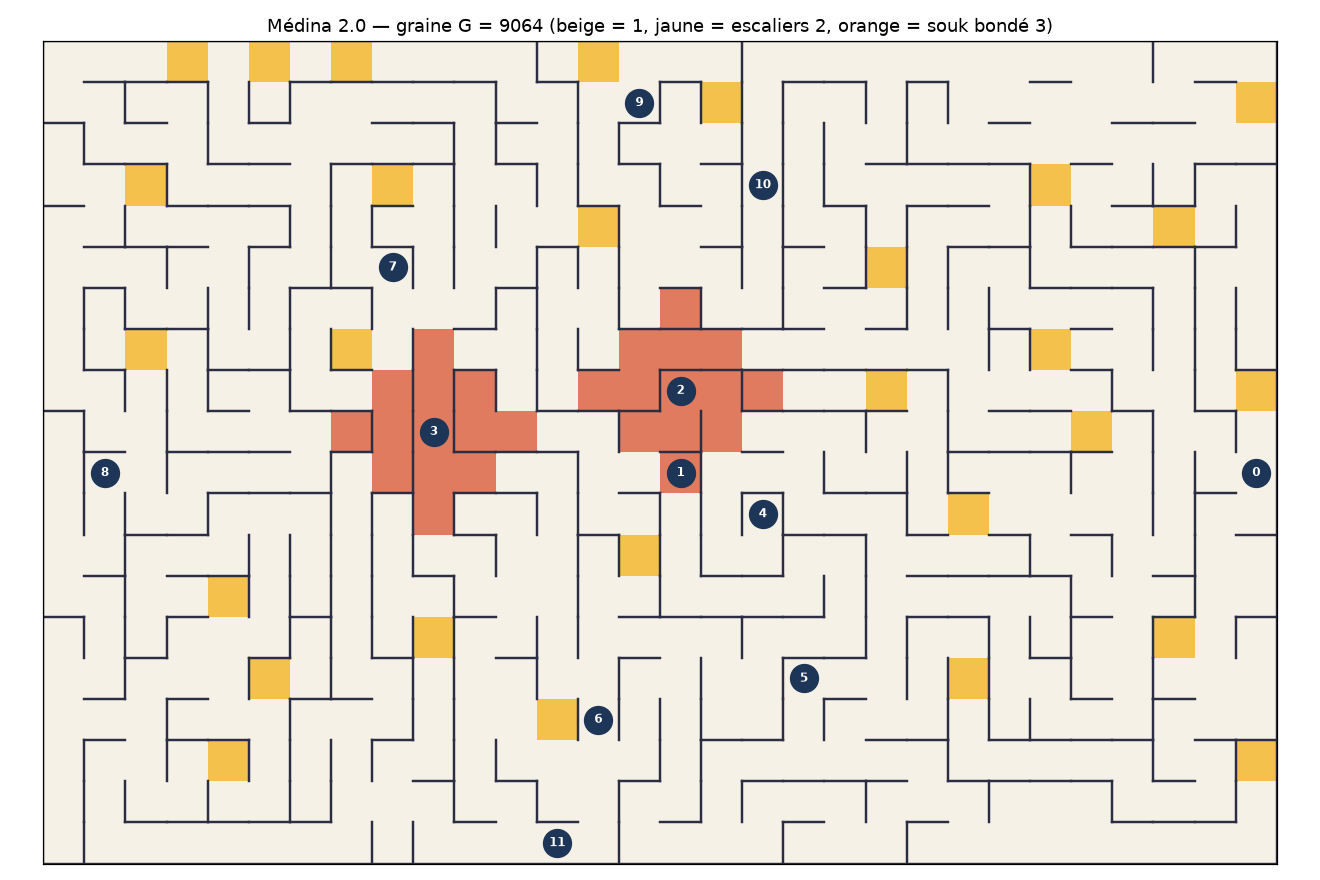
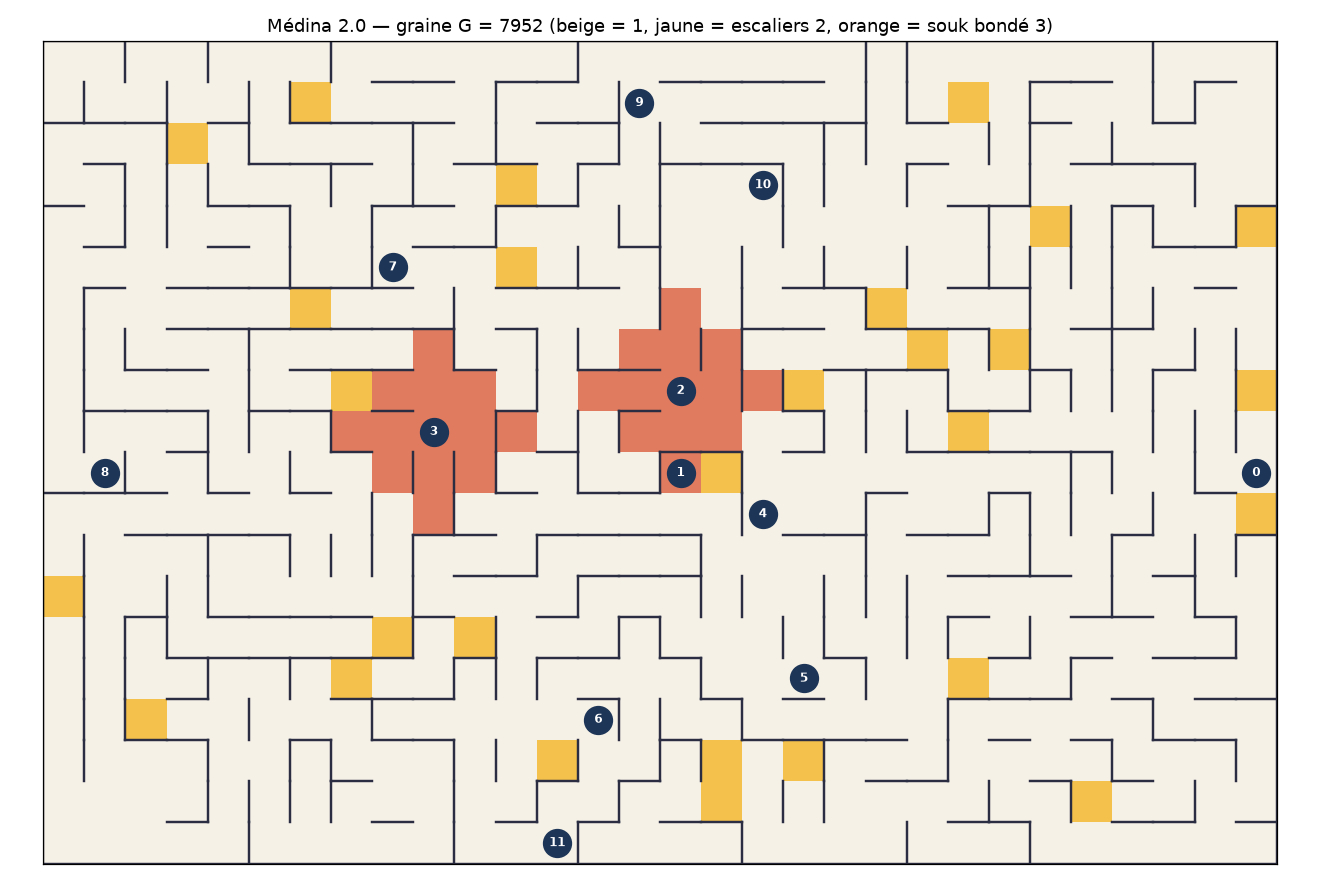
WIP adding ids

diff --git a/journal_experiences.md b/journal_experiences.md
@@ -1,14 +1,14 @@
 # Journal d'expériences — Médina 2.0
 
-Graine G = 9064  ·  k = 63
+Graine G = 7952  ·  k = 99
 
 > Tableaux et courbes générés automatiquement par `experiences.py`. Voir `ANALYSES.md` pour les interprétations.
 
 ## Partie 1 — La carte
 
-- Graine G = 9064, k = 60 + (G mod 41) = 63
+- Graine G = 7952, k = 60 + (G mod 41) = 99
 - Passages du labyrinthe parfait : 599 (attendu P×Q−1 = 599)
-- Passages après ouverture : 662 (= 599 + 63)
+- Passages après ouverture : 698 (= 599 + 99)
 - Escaliers : 28 cases
 
 ![carte](figures/carte.png)
@@ -17,38 +17,38 @@ Graine G = 9064  ·  k = 63
 
 ### Q6b — Contre-exemples BFS (pas minimal ≠ coût minimal)
 
-33 paires de points d'intérêt sur 132 où BFS est strictement plus cher que le coût uniforme. Exemples :
+53 paires de points d'intérêt sur 132 où BFS est strictement plus cher que le coût uniforme. Exemples :
 
 | trajet | BFS : pas | BFS : coût | UCS : pas | UCS : coût |
 |---|---|---|---|---|
-| 0→6 | 36 | 48 | 38 | 39 |
-| 0→11 | 40 | 52 | 40 | 41 |
-| 1→5 | 18 | 28 | 24 | 25 |
-| 2→9 | 56 | 72 | 56 | 62 |
-| 2→10 | 43 | 59 | 43 | 49 |
+| 0→1 | 24 | 29 | 24 | 27 |
+| 0→2 | 22 | 30 | 22 | 29 |
+| 0→3 | 31 | 39 | 31 | 38 |
+| 0→4 | 19 | 21 | 19 | 20 |
+| 0→5 | 20 | 22 | 20 | 21 |
 
 ### Q7 — DFS vs BFS : labyrinthe parfait (k=0) vs Médina (k>0)
 
 | carte | trajet | pas BFS | pas DFS | coût BFS | coût DFS |
 |---|---|---|---|---|---|
-| parfait k=0 | 0→1 | 96 | 96 | 113 | 113 |
-| parfait k=0 | 9→11 | 138 | 138 | 149 | 149 |
-| Médina k=63 | 0→1 | 28 | 86 | 41 | 102 |
-| Médina k=63 | 9→11 | 62 | 180 | 80 | 206 |
+| parfait k=0 | 0→1 | 200 | 200 | 234 | 234 |
+| parfait k=0 | 9→11 | 100 | 100 | 128 | 128 |
+| Médina k=99 | 0→1 | 24 | 172 | 29 | 202 |
+| Médina k=99 | 9→11 | 32 | 170 | 34 | 190 |
 
 ### Q11 — Trajet Bab Bhar (0) → Mosquée Zitouna (1)
 
 | Méthode | Nombre de pas | Coût | Cases explorées | Optimal en coût ? | Temps (ms) |
 |---|---|---|---|---|---|
-| BFS | 28 | 41 | 272 | oui | 0.74 |
-| DFS | 86 | 102 | 135 | non | 0.33 |
-| Coût uniforme | 28 | 41 | 361 | oui | 1.03 |
-| Glouton (Manhattan) | 30 | 43 | 40 | non | 0.13 |
-| A* (h nulle) | 28 | 41 | 361 | oui | 1.11 |
-| A* (Tchebychev) | 28 | 41 | 293 | oui | 0.90 |
-| A* (Euclide) | 28 | 41 | 287 | oui | 0.91 |
-| A* (Manhattan) | 28 | 41 | 270 | oui | 0.83 |
-| A* pondéré (Manhattan, w=2) | 28 | 41 | 142 | oui | 0.50 |
+| BFS | 24 | 29 | 234 | non | 0.67 |
+| DFS | 172 | 202 | 386 | non | 0.92 |
+| Coût uniforme | 24 | 27 | 230 | oui | 0.64 |
+| Glouton (Manhattan) | 24 | 29 | 42 | non | 0.13 |
+| A* (h nulle) | 24 | 27 | 230 | oui | 0.62 |
+| A* (Tchebychev) | 24 | 27 | 161 | oui | 0.48 |
+| A* (Euclide) | 24 | 27 | 147 | oui | 0.49 |
+| A* (Manhattan) | 24 | 27 | 112 | oui | 0.48 |
+| A* pondéré (Manhattan, w=2) | 24 | 28 | 37 | non | 0.16 |
 
 ![trajet](figures/trajet_0_1.png)
 
@@ -56,58 +56,58 @@ Graine G = 9064  ·  k = 63
 
 | Méthode | Nombre de pas | Coût | Cases explorées | Optimal en coût ? | Temps (ms) |
 |---|---|---|---|---|---|
-| BFS | 62 | 80 | 475 | non | 1.28 |
-| DFS | 180 | 206 | 479 | non | 1.15 |
-| Coût uniforme | 72 | 74 | 488 | oui | 1.39 |
-| Glouton (Manhattan) | 62 | 81 | 87 | non | 0.25 |
-| A* (h nulle) | 72 | 74 | 488 | oui | 1.55 |
-| A* (Tchebychev) | 72 | 74 | 378 | oui | 1.17 |
-| A* (Euclide) | 72 | 74 | 361 | oui | 1.14 |
-| A* (Manhattan) | 72 | 74 | 346 | oui | 1.15 |
-| A* pondéré (Manhattan, w=2) | 64 | 77 | 153 | non | 0.48 |
+| BFS | 32 | 34 | 519 | oui | 1.32 |
+| DFS | 170 | 190 | 217 | non | 0.51 |
+| Coût uniforme | 32 | 34 | 472 | oui | 1.32 |
+| Glouton (Manhattan) | 32 | 34 | 45 | oui | 0.13 |
+| A* (h nulle) | 32 | 34 | 472 | oui | 1.35 |
+| A* (Tchebychev) | 32 | 34 | 246 | oui | 0.73 |
+| A* (Euclide) | 32 | 34 | 209 | oui | 0.65 |
+| A* (Manhattan) | 32 | 34 | 157 | oui | 0.57 |
+| A* pondéré (Manhattan, w=2) | 32 | 34 | 56 | oui | 0.18 |
 
 ![trajet](figures/trajet_9_11.png)
 
 ## Partie 3 — Le circuit du guide
 
-### Q12 — Matrice des coûts (132 appels à A*, 77 ms)
+### Q12 — Matrice des coûts (132 appels à A*, 54 ms)
 
 ```
-  0  41  31  47  26  21  39  40  66  39  26  41
- 39   0  10  19  21  25  11  16  43  66  53  15
- 29  10   0  25  11  18  17  22  49  62  49  21
- 45  19  25   0  36  31  15   9  41  59  46  19
- 26  23  13  38   0  15  30  35  62  59  46  34
- 21  27  20  33  15   0  18  37  48  54  41  20
- 39  13  19  17  30  18   0  23  32  72  59   4
- 40  18  24  11  35  37  23   0  36  54  41  27
- 66  45  51  43  62  48  32  36   0  80  67  28
- 39  68  64  61  59  54  72  54  80   0  13  74
- 26  55  51  48  46  41  59  41  67  13   0  61
- 41  17  23  21  34  20   4  27  28  74  61   0
+  0  27  29  38  20  21  35  41  55  36  29  38
+ 25   0  16  15   5   8  16  18  32  22  19  20
+ 27  16   0  23   9  14  24  14  31  14  11  28
+ 36  15  23   0  16  19  19  13  17  20  28  23
+ 20   7  11  18   0   5  15  21  35  21  14  19
+ 21  10  16  21   5   0  14  24  38  26  19  18
+ 35  18  26  21  15  14   0  26  38  30  29   4
+ 41  20  16  15  21  24  26   0  19  11  21  30
+ 55  34  33  19  35  38  38  19   0  28  38  42
+ 36  24  16  22  21  26  30  11  28   0  11  34
+ 29  21  13  30  14  19  29  21  38  11   0  33
+ 38  22  30  25  19  18   4  30  42  34  33   0
 ```
 
 Paires (i,j) asymétriques : 27/66. Relation vérifiée `M[i][j] − M[j][i] = cout(j) − cout(i)` pour toutes les paires : **True**.
 
 ### Q13-Q14 — Référence
 
-- Plus proche voisin : [0, 5, 4, 2, 1, 6, 11, 3, 7, 8, 10, 9], coût 259
-- Held-Karp : coût **247**, tournée [0, 10, 9, 7, 3, 8, 11, 6, 1, 2, 4, 5], 11264 états, 38 ms
+- Plus proche voisin : [0, 4, 5, 1, 3, 7, 9, 10, 2, 6, 11, 8], coût 223
+- Held-Karp : coût **176**, tournée [0, 5, 11, 6, 3, 8, 7, 9, 10, 2, 4, 1], 11264 états, 44 ms
 
 ### Q15 — Descente 2-opt depuis 10 tournées aléatoires
 
-Coûts atteints : [252, 256, 247, 247, 256, 256, 247, 256, 253, 247] (optimum 247) → optimum atteint 4/10 fois.
+Coûts atteints : [176, 176, 176, 176, 176, 176, 176, 176, 178, 176] (optimum 176) → optimum atteint 9/10 fois.
 
 ### Q16 — Recuit simulé (T0=50, palier=50, 10 graines)
 
 | voisinage | α | itérations | meilleur coût | coût moyen | pire coût |
 |---|---|---|---|---|---|
-| échange | 0.8 | 1951 | 247 | 257.3 | 271 |
-| échange | 0.95 | 8351 | 247 | 250.7 | 268 |
-| échange | 0.995 | 85001 | 247 | 247.0 | 247 |
-| 2-opt | 0.8 | 1951 | 247 | 249.7 | 256 |
-| 2-opt | 0.95 | 8351 | 247 | 247.0 | 247 |
-| 2-opt | 0.995 | 85001 | 247 | 247.0 | 247 |
+| échange | 0.8 | 1951 | 176 | 181.6 | 198 |
+| échange | 0.95 | 8351 | 176 | 177.7 | 183 |
+| échange | 0.995 | 85001 | 176 | 176.0 | 176 |
+| 2-opt | 0.8 | 1951 | 176 | 176.0 | 176 |
+| 2-opt | 0.95 | 8351 | 176 | 176.0 | 176 |
+| 2-opt | 0.995 | 85001 | 176 | 176.0 | 176 |
 
 ![recuit](figures/recuit.png)
 
@@ -115,9 +115,9 @@ Coûts atteints : [252, 256, 247, 247, 256, 256, 247, 256, 253, 247] (optimum 24
 
 | p_mut | meilleur coût | coût moyen | pire coût | diversité finale (graine G) |
 |---|---|---|---|---|
-| 0.01 | 247 | 255.8 | 285 | 1 |
-| 0.1 | 247 | 253.7 | 272 | 7 |
-| 0.3 | 247 | 258.8 | 268 | 20 |
+| 0.01 | 176 | 178.9 | 188 | 1 |
+| 0.1 | 176 | 178.1 | 185 | 14 |
+| 0.3 | 176 | 178.1 | 183 | 19 |
 
 ![ag](figures/ag.png)
 
@@ -125,11 +125,11 @@ Coûts atteints : [252, 256, 247, 247, 256, 256, 247, 256, 253, 247] (optimum 24
 
 | Méthode | Écart moyen (%) | Meilleur écart (%) | Pire écart (%) | Temps moyen (ms) |
 |---|---|---|---|---|
-| Plus proche voisin | 4.86 | 4.86 | 4.86 | 0.0 |
-| Descente 2-opt (départ aléatoire) | 2.23 | 0.00 | 3.64 | 0.9 |
-| Recuit simulé (échange, α=0.995) | 0.00 | 0.00 | 0.00 | 509.6 |
-| Algorithme génétique (p_mut=0.1) | 2.71 | 0.00 | 10.12 | 267.0 |
-| Held-Karp | 0.00 | 0.00 | 0.00 | 37.4 |
+| Plus proche voisin | 26.70 | 26.70 | 26.70 | 0.0 |
+| Descente 2-opt (départ aléatoire) | 0.00 | 0.00 | 0.00 | 0.8 |
+| Recuit simulé (échange, α=0.995) | 0.00 | 0.00 | 0.00 | 395.7 |
+| Algorithme génétique (p_mut=0.1) | 1.19 | 0.00 | 5.11 | 252.0 |
+| Held-Karp | 0.00 | 0.00 | 0.00 | 35.2 |
 
 ## Partie 4 — Le souk réaménagé
 
@@ -141,11 +141,11 @@ Coûts atteints : [252, 256, 247, 247, 256, 256, 247, 256, 253, 247] (optimum 24
 
 | Variante | Nœuds (1re sol.) | Retours (1re sol.) | Temps (ms) | Nœuds (toutes) | Retours (toutes) |
 |---|---|---|---|---|---|
-| Backtracking simple | 10 | 1 | 0.20 | 260 | 93 |
-| + MRV et degré | 9 | 0 | 0.92 | 344 | 111 |
-| + forward checking | 9 | 1 | 0.35 | 187 | 93 |
-| + MRV, degré et forward checking | 9 | 0 | 0.77 | 265 | 111 |
-| AC-3 puis MRV, degré et forward checking | 9 | 0 | 0.98 | 265 | 110 |
+| Backtracking simple | 10 | 1 | 0.21 | 260 | 93 |
+| + MRV et degré | 9 | 0 | 0.84 | 344 | 111 |
+| + forward checking | 9 | 1 | 0.23 | 187 | 93 |
+| + MRV, degré et forward checking | 9 | 0 | 0.70 | 265 | 111 |
+| AC-3 puis MRV, degré et forward checking | 9 | 0 | 0.65 | 265 | 110 |
 
 Première solution : {'PA': 1, 'PB': 3, 'CH': 2, 'DI': 7, 'BI': 5, 'TI': 4, 'LI': 8, 'PT': 9}
 
@@ -173,39 +173,39 @@ Position de milieu de partie (8 demi-coups aléatoires, graine G) :
 
 ```
    0 1 2 3 4
-0  ● · ● ● ●
-1  ● ● ● ● ·
-2  ● · · ○ ●
-3  ○ ○ ○ ○ ○
-4  ○ ○ ○ · ○
+0  ● ● · ● ●
+1  ● · ● ● ●
+2  · ● · ○ ○
+3  ○ ○ ● ○ ○
+4  ○ ○ ○ ○ ·
 ```
 
 ### Q26-Q27 — Nœuds explorés (eval_1)
 
 | Profondeur | Nœuds Minimax | Nœuds alpha-bêta | Nœuds alpha-bêta + ordre (Q27) | Temps alpha-bêta (ms) |
 |---|---|---|---|---|
-| 1 | 7 | 7 | 7 | 0.1 |
-| 2 | 59 | 22 | 22 | 0.4 |
-| 3 | 430 | 75 | 67 | 1.0 |
-| 4 | 3467 | 306 | 254 | 3.3 |
-| 5 | 24248 | 853 | 668 | 10.2 |
+| 1 | 5 | 5 | 5 | 0.1 |
+| 2 | 49 | 18 | 18 | 0.2 |
+| 3 | 336 | 121 | 93 | 1.8 |
+| 4 | 2770 | 303 | 195 | 3.8 |
+| 5 | 20272 | 1367 | 719 | 15.9 |
 
 Vérification : alpha-bêta = Minimax (profondeur 3, eval_1 et eval_2) sur 20/20 positions.
 
-### Q28 — Tournoi eval_1 vs eval_2 (10 parties, profondeur 3, 7 s)
+### Q28 — Tournoi eval_1 vs eval_2 (10 parties, profondeur 3, 9 s)
 
 Score : **eval_1 = 5.0**, **eval_2 = 5.0**
 
 | partie | Blancs | résultat | pions eval_2 − eval_1 |
 |---|---|---|---|
 | 1 | eval_1 | nul | 0 |
-| 2 | eval_2 | nul | 1 |
+| 2 | eval_2 | nul | -1 |
 | 3 | eval_1 | nul | 2 |
 | 4 | eval_2 | nul | 0 |
-| 5 | eval_1 | nul | 2 |
-| 6 | eval_2 | nul | 1 |
-| 7 | eval_1 | nul | 0 |
-| 8 | eval_2 | nul | 0 |
-| 9 | eval_1 | nul | 2 |
+| 5 | eval_1 | nul | -1 |
+| 6 | eval_2 | nul | 0 |
+| 7 | eval_1 | nul | 2 |
+| 8 | eval_2 | nul | 1 |
+| 9 | eval_1 | nul | 0 |
 | 10 | eval_2 | nul | 0 |
 
